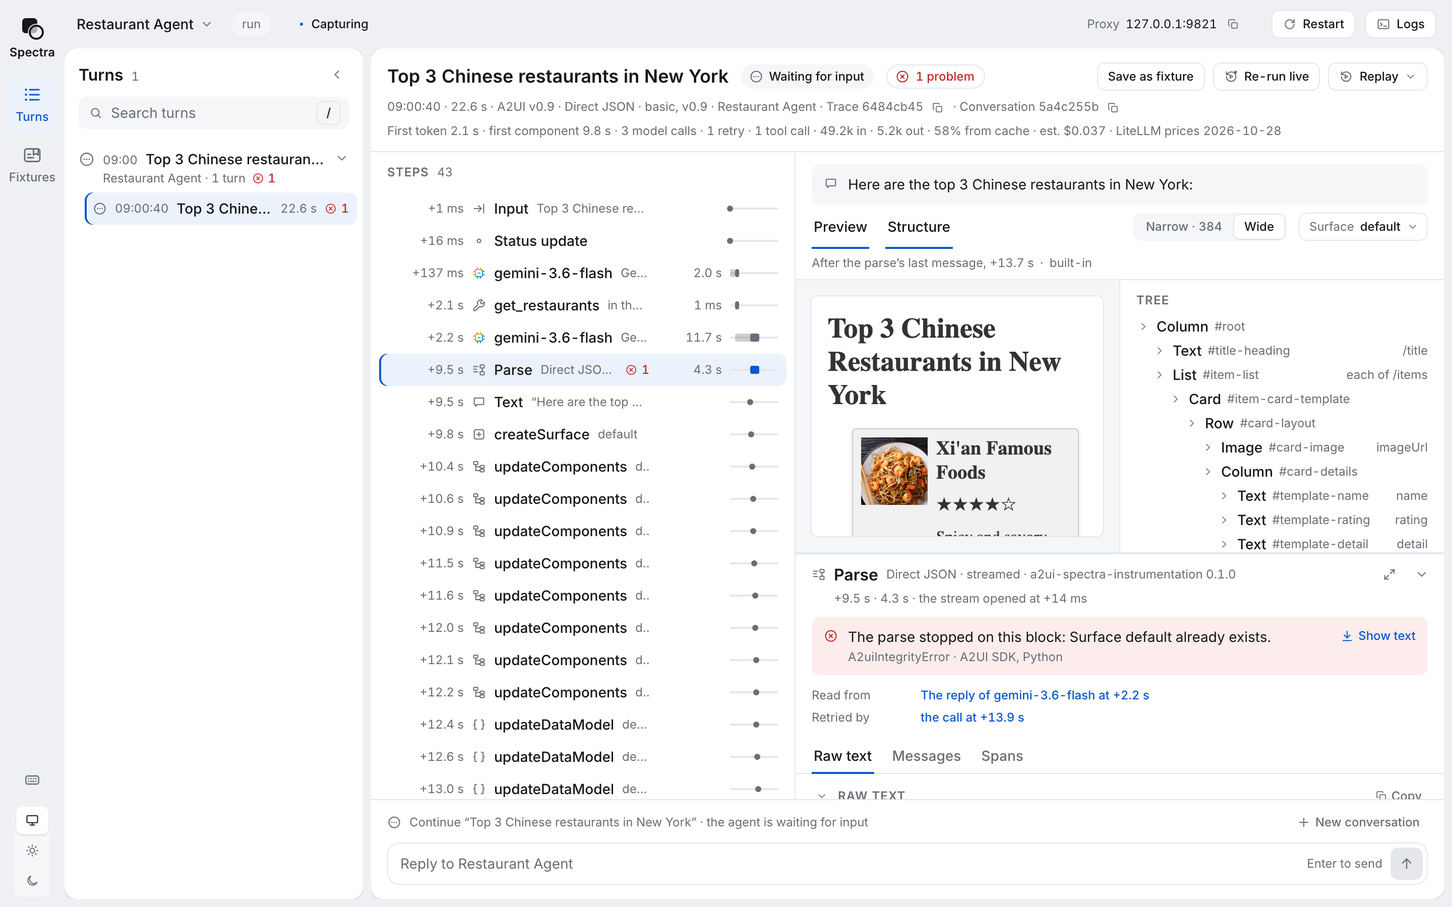
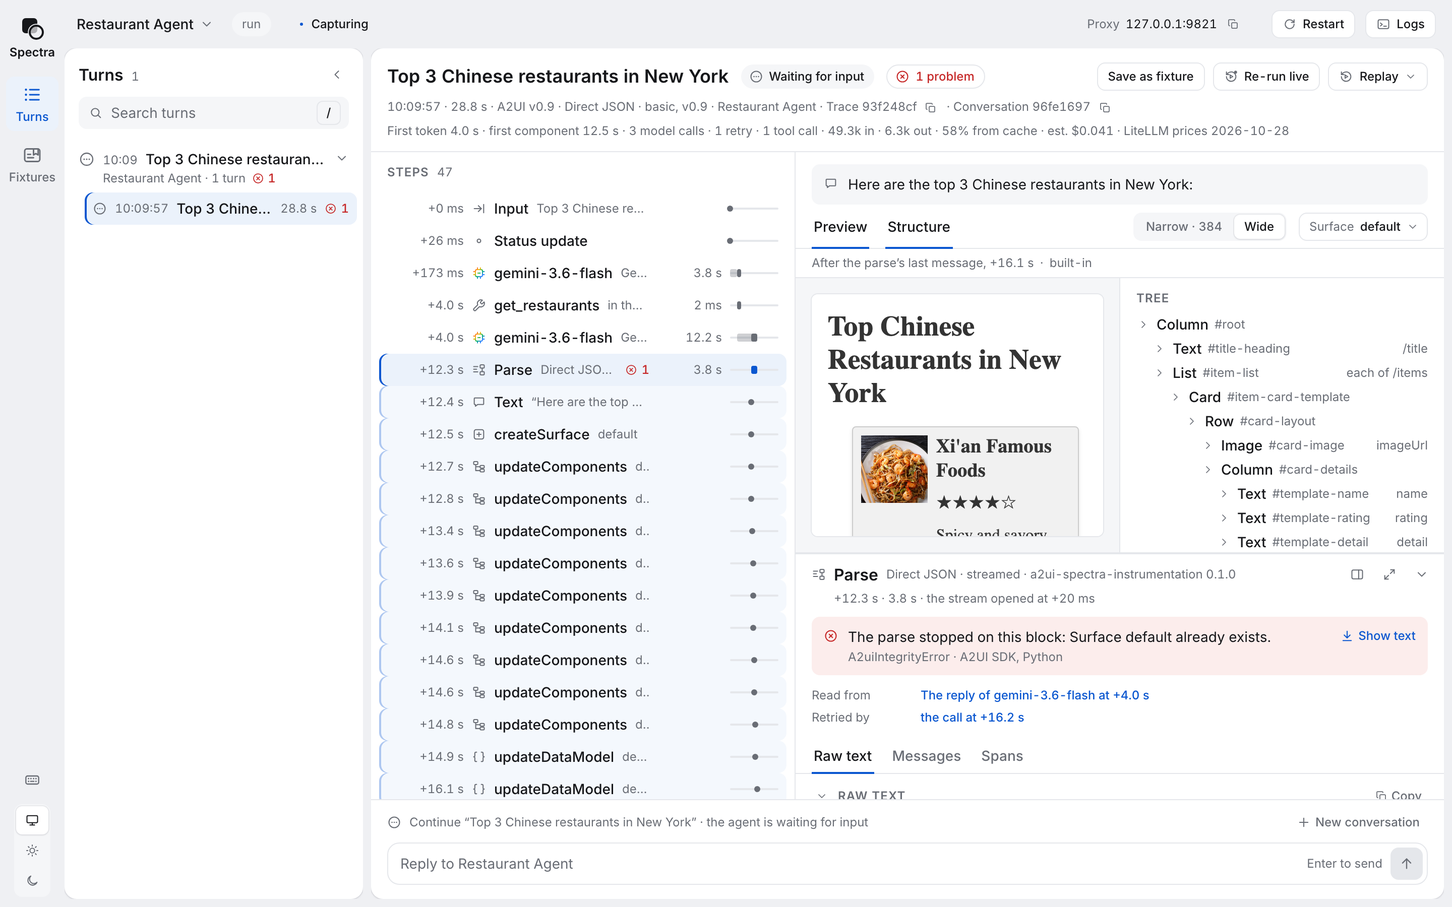
docs(phase-10): the seven images retaken on the viewer as built, the result's tab row on its line, the dock in the step's detail and the rows the failed parse covers tinted, from one fresh run of upstream's Python restaurant finder on Gemini on the compiled binary, and the text quoting the run writt

diff --git a/docs/design/viewer.md b/docs/design/viewer.md
@@ -51,13 +51,13 @@ The restaurant finder runs under `a2ui-spectra run`, with the Python wrapper swi
 
 <picture>
   <source media="(prefers-color-scheme: dark)" srcset="../images/viewer-dark.png">
-  <img alt="The viewer on the restaurant finder's turn. The turn list holds one conversation with one turn and one problem. The header reads Top 3 Chinese restaurants in New York, Waiting for input, 1 problem, with Save as fixture, Re-run live and Replay; under it the start, the duration, A2UI v0.9, Direct JSON, basic v0.9, the agent and the ids, then First token 2.1 s, first component 9.8 s, 3 model calls, 1 retry, 1 tool call, the tokens, 58% from cache and the estimated cost. The timeline's selected row is the parse, with one problem. The result shows the preview of the restaurant card beside its tree, and the parse's detail below reads The parse stopped on this block: Surface default already exists, Read from the reply of gemini-3.6-flash at +2.2 s, Retried by the call at +13.9 s, then its tabs, Raw text open." src="../images/viewer-light.png">
+  <img alt="The viewer on the restaurant finder's turn. The turn list holds one conversation with one turn and one problem. The header reads Top 3 Chinese restaurants in New York, Waiting for input, 1 problem, with Save as fixture, Re-run live and Replay; under it the start, the duration, A2UI v0.9, Direct JSON, basic v0.9, the agent and the ids, then First token 4.0 s, first component 12.5 s, 3 model calls, 1 retry, 1 tool call, the tokens, 58% from cache and the estimated cost. The timeline's selected row is the parse, with one problem, and the rows it covers, from its text part to its last updateDataModel, are tinted. The result shows the preview of the restaurant card beside its tree, and the parse's detail below reads The parse stopped on this block: Surface default already exists, Read from the reply of gemini-3.6-flash at +4.0 s, Retried by the call at +16.2 s, then its tabs, Raw text open." src="../images/viewer-light.png">
 </picture>
 
 1. **The turn opens.** The live stream says a turn opened. The turn list gains a row with the open turn's spinner, and since the newest turn was selected, the page selects the new one. The timeline is marked Live and follows its newest row.
 2. **The steps arrive.** A status update, then the first model call, `gemini-3.6-flash` in Gemini's colours, then the tool call `get_restaurants`, "in the agent", read from the agent's spans, then the second model call, whose bar is lighter until its first token and darker after. The parse row, "Parse · Direct JSON · streamed", comes in at its first chunk, after the second model call, and draws a bar from there to its end. A text part and the A2UI messages follow, each a dot at its moment.
 3. **The turn closes.** It ends waiting for input. The view lands on its first problem, the parse, and opens the step's detail on it. The header reads "1 problem"; its second line gives the start, the duration, the A2UI version, the inference format and the catalog the turn used; its third line the time to the first token and to the first component, the calls, the retry, the tokens, the share read from the cache and the estimated cost.
-4. **The parse's detail says what happened.** "The parse stopped on this block: Surface default already exists." over "A2uiIntegrityError · A2UI SDK, Python", with Show text. "Read from" links the model call whose reply the parse read, "The reply of gemini-3.6-flash at +2.2 s", and "Retried by" links the call that followed, "the call at +13.9 s". The Raw text tab under them has the rejected block in red.
+4. **The parse's detail says what happened.** "The parse stopped on this block: Surface default already exists." over "A2uiIntegrityError · A2UI SDK, Python", with Show text. "Read from" links the model call whose reply the parse read, "The reply of gemini-3.6-flash at +4.0 s", and "Retried by" links the call that followed, "the call at +16.2 s". The Raw text tab under them has the rejected block in red.
 5. **The result shows the surfaces after the parse.** The note reads "After the parse’s last message", the Preview draws the restaurant card through the basic catalog's renderer, and Structure shows its tree, each row with the path it binds.
 6. **The retry says why.** Selecting the third model call shows, before its prefix break, a grey sentence naming the call whose reply failed and the error, with "failed to parse" a link back to the parse.
 
@@ -279,14 +279,14 @@ On the right of the first line sit [Save as fixture](#save-as-fixture), [Re-run 
 
 | Part                        | What it counts                                                                                                                                         |
 | --------------------------- | ------------------------------------------------------------------------------------------------------------------------------------------------------ |
-| "First token 2.1 s"         | From the turn's start to the first model call's first chunk, or its end when it did not stream or is read from spans only. A miss gives no first token |
-| "first component 9.8 s"     | From the turn's start to the first A2UI message                                                                                                        |
+| "First token 4.0 s"         | From the turn's start to the first model call's first chunk, or its end when it did not stream or is read from spans only. A miss gives no first token |
+| "first component 12.5 s"    | From the turn's start to the first A2UI message                                                                                                        |
 | "3 model calls"             | The model calls, raw ones and those read from spans only included                                                                                      |
 | "1 retry"                   | The retries among them, when there are any                                                                                                             |
 | "1 tool call"               | The full tool rows: housekeeping and the toolset's calls, shown as their parses, are left out                                                          |
-| "49.2k in · 5.2k out"       | The input and output tokens summed over the calls with usage, those read from spans only included, as `9.1k` above a thousand                          |
+| "49.3k in · 6.3k out"       | The input and output tokens summed over the calls with usage, those read from spans only included, as `9.1k` above a thousand                          |
 | "58% from cache"            | The share of the input read from the cache, when the turn read any                                                                                     |
-| "est. $0.037"               | The estimated cost of the priced calls, to two significant figures and at most four decimals                                                           |
+| "est. $0.041"               | The estimated cost of the priced calls, to two significant figures and at most four decimals                                                           |
 | "1 call unpriced"           | How many calls have no price                                                                                                                           |
 | "LiteLLM prices 2026-10-28" | The price table's date, or "prices from the config" when every priced call used the config's price                                                     |
 | "1 call recorded raw"       | How many calls were recorded raw                                                                                                                       |
@@ -481,7 +481,7 @@ Such a step ends with the delivery it arrived in, folded, under "Delivery" with 
 
 ### A model call's detail
 
-The title line holds the model id, the API and where the call was seen, the model proxy and the agent's spans linked to it. The facts line holds its start, its duration and its time to the first token. The usage line holds its tokens in and out, its reasoning tokens, the share of its input read from the cache and its estimated cost, with where the price came from: "15.5k in · 3.0k out · 1.7k reasoning · 84% from cache · est. $0.014 · LiteLLM prices 2026-10-28"; "free · served from the record" for a served call; "price from the config"; or "no price for `<model>`". A call read from spans adds where its tokens came from, "tokens from ADK spans". The usage line is left out when the call states no input tokens, and the share from the cache when the input is 0; the exact counts stay in the Spans tab's attributes and the HTTP tab's response body. The estimated cost is computed in the page, from the price table read once from `GET /api/prices`.
+The title line holds the model id, the API and where the call was seen, the model proxy and the agent's spans linked to it. The facts line holds its start, its duration and its time to the first token. The usage line holds its tokens in and out, its reasoning tokens, the share of its input read from the cache and its estimated cost, with where the price came from: "15.5k in · 3.1k out · 1.8k reasoning · 84% from cache · est. $0.015 · LiteLLM prices 2026-10-28"; "free · served from the record" for a served call; "price from the config"; or "no price for `<model>`". A call read from spans adds where its tokens came from, "tokens from ADK spans". The usage line is left out when the call states no input tokens, and the share from the cache when the input is 0; the exact counts stay in the Spans tab's attributes and the HTTP tab's response body. The estimated cost is computed in the page, from the price table read once from `GET /api/prices`.
 
 Its connections:
 
@@ -588,11 +588,11 @@ The Fixtures section switches the panels: the fixtures list and the fixture view
 
 #### The fixture view
 
-The fixture view is the turn view's shape, under a fixture line: "Fixture" and the file's name, followed by its copy button, then the turn count, the recorded estimated cost, priced as the header's third line prices it, "recorded $0.037" or "recorded cost unknown", left out until the prices are read, or "nothing recorded to serve" on a record with nothing to serve, and when it was saved, "saved 2026-11-22 09:01".
+The fixture view is the turn view's shape, under a fixture line: "Fixture" and the file's name, followed by its copy button, then the turn count, the recorded estimated cost, priced as the header's third line prices it, "recorded $0.041" or "recorded cost unknown", left out until the prices are read, or "nothing recorded to serve" on a record with nothing to serve, and when it was saved, "saved 2026-11-22 10:12".
 
 <picture>
   <source media="(prefers-color-scheme: dark)" srcset="../images/replay-menu-dark.png">
-  <img alt="The Fixtures section with one fixture, chinese-restaurants, holding one turn with one problem. Its view's fixture line reads Fixture chinese-restaurants.json, 1 turn, recorded $0.037, saved 2026-11-22 09:01. The Replay popover is open with two rows: Everything recorded, Free, the model and the tools answer from the record; and Tools recorded, model live, Up to $0.037, a request that changed goes to the model." src="../images/replay-menu-light.png">
+  <img alt="The Fixtures section with one fixture, chinese-restaurants, holding one turn with one problem. Its view's fixture line reads Fixture chinese-restaurants.json, 1 turn, recorded $0.041, saved 2026-11-22 10:12. The Replay popover is open with two rows: Everything recorded, Free, the model and the tools answer from the record; and Tools recorded, model live, Up to $0.041, a request that changed goes to the model." src="../images/replay-menu-light.png">
 </picture>
 
 - A press in its preview is dropped.
@@ -612,7 +612,7 @@ Replay sits on the right of the header's first line, in Turns and in the fixture
 | Row                          | Cost label                                                                                                                                                                                                                    |
 | ---------------------------- | ----------------------------------------------------------------------------------------------------------------------------------------------------------------------------------------------------------------------------- |
 | "Everything recorded"        | "Free · the model and the tools answer from the record"; on a record with nothing to serve, by the server's rule, the row is off and reads "No model or tool calls were recorded"                                             |
-| "Tools recorded, model live" | "Up to $0.037 · a request that changed goes to the model", the record's recorded cost; "Cost unknown · a request that changed goes to the model" with no priced call; "Cost unknown · nothing recorded" with nothing to serve |
+| "Tools recorded, model live" | "Up to $0.041 · a request that changed goes to the model", the record's recorded cost; "Cost unknown · a request that changed goes to the model" with no priced call; "Cost unknown · nothing recorded" with nothing to serve |
 
 Both rows are off, with Re-run's note under their label, whenever [Re-run live](#re-run-live) is. The server is the authority on a refusal: its answer is shown in the popover, with nothing moved. Pressing a row starts the replay; the rows are off while the request is on its way, and the popover closes once the first turn has opened. The page switches to Turns and follows the replayed turns as they open, until another turn is selected or the address moves. In the fixture view, Replay replays the whole fixture, whatever turn is in view. What the two modes do is in [replay and fixtures](replay-and-fixtures.md).
 
@@ -636,7 +636,7 @@ A replayed turn has a fourth quiet line under its header: "Replayed from", the s
 
 <picture>
   <source media="(prefers-color-scheme: dark)" srcset="../images/replay-passed-dark.png">
-  <img alt="A replayed turn of the fixture. The header's third line reads First token 30 ms, first component 93 ms, 1 retry, 1 tool call, 3 calls from the record, free; the fourth line reads Replayed from chinese-restaurants.json, turn 1 of 1, everything recorded, passed. The served retry carries the grey tag Retry 1 · Record in the timeline." src="../images/replay-passed-light.png">
+  <img alt="A replayed turn of the fixture. The header's third line reads First token 85 ms, first component 180 ms, 1 retry, 1 tool call, 3 calls from the record, free; the fourth line reads Replayed from chinese-restaurants.json, turn 1 of 1, everything recorded, passed. The served retry carries the grey tag Retry 1 · Record in the timeline." src="../images/replay-passed-light.png">
 </picture>
 
 A re-run turn's line reads "Re-run of", its source, its number of the total and "live", with no verdict and no colour, and its header's third line counts every call as live.
@@ -675,7 +675,7 @@ Its header, "Logs", names the agent's command, cut, and counts the lines held an
 - **Each output line**, with its time to the millisecond in the page's time zone, its stream as `out` or `err`, and its text, the ANSI escape codes stripped and only what follows the line's last carriage return shown, the carriage returns the line ends in not counted. A long line scrolls sideways while the dividers and markers stay in view.
 - **Each divider** the buffer holds, "Started · uv run ." and "Stopped · prompt_builder.py changed · exited with code 143", the session's first start included; a long one is cut, with its whole text as its tooltip.
 - **"No output yet."**, under the dividers for as long as no output line is held.
-- **Turn markers.** Each listed turn, whatever agent the turn list is showing, is marked where it opened, "Turn opened ·" and its name as the turn list names it, or "A turn" before its input has come, a link that selects it in Turns and leaves the drawer open; and where it closed, "Turn closed ·" with its outcome in the header's words, lower-case, and its duration, "Turn closed · waiting for input · 22.6 s". A marker is drawn only when its moment is not earlier than the oldest entry the buffer holds; among the entries of its millisecond, an opened marker comes first and a closed one last.
+- **Turn markers.** Each listed turn, whatever agent the turn list is showing, is marked where it opened, "Turn opened ·" and its name as the turn list names it, or "A turn" before its input has come, a link that selects it in Turns and leaves the drawer open; and where it closed, "Turn closed ·" with its outcome in the header's words, lower-case, and its duration, "Turn closed · waiting for input · 28.8 s". A marker is drawn only when its moment is not earlier than the oldest entry the buffer holds; among the entries of its millisecond, an opened marker comes first and a closed one last.
 
 The drawer follows its end until the reader scrolls up, and Jump to latest resumes. It closes by its close button, "Close the logs", or by Logs; Escape does not close it. While the page is not connected, it keeps what it held.
 

diff --git a/docs/design/turn-end-to-end.md b/docs/design/turn-end-to-end.md
@@ -250,10 +250,10 @@ The store then writes the turn as one turn record file, `.a2ui-spectra/turns/<co
 
 <picture>
   <source media="(prefers-color-scheme: dark)" srcset="../images/viewer-dark.png">
-  <img alt="The viewer on the closed turn. The context bar reads Restaurant Agent, run, Capturing, with the wire proxy's address 127.0.0.1:9821, Restart and Logs. The turn list holds one conversation with one turn and one problem. The header reads Top 3 Chinese restaurants in New York, Waiting for input, 1 problem, with Save as fixture, Re-run live and Replay; then 09:00:40, 22.6 s, A2UI v0.9, Direct JSON, basic v0.9, Restaurant Agent and the trace and conversation ids; then First token 2.1 s, first component 9.8 s, 3 model calls, 1 retry, 1 tool call, 49.2k in, 5.2k out, 58% from cache, est. $0.037, LiteLLM prices 2026-10-28. The timeline's selected row is the parse. The result shows the restaurant card in the Preview beside its tree in Structure, and the parse's detail reads The parse stopped on this block: Surface default already exists, Read from the reply of gemini-3.6-flash at +2.2 s, Retried by the call at +13.9 s, then its tabs, Raw text open." src="../images/viewer-light.png">
+  <img alt="The viewer on the closed turn. The context bar reads Restaurant Agent, run, Capturing, with the wire proxy's address 127.0.0.1:9821, Restart and Logs. The turn list holds one conversation with one turn and one problem. The header reads Top 3 Chinese restaurants in New York, Waiting for input, 1 problem, with Save as fixture, Re-run live and Replay; then 10:09:57, 28.8 s, A2UI v0.9, Direct JSON, basic v0.9, Restaurant Agent and the trace and conversation ids; then First token 4.0 s, first component 12.5 s, 3 model calls, 1 retry, 1 tool call, 49.3k in, 6.3k out, 58% from cache, est. $0.041, LiteLLM prices 2026-10-28. The timeline's selected row is the parse, and the rows it covers, from its text part to its last updateDataModel, are tinted. The result shows the restaurant card in the Preview beside its tree in Structure, and the parse's detail reads The parse stopped on this block: Surface default already exists, Read from the reply of gemini-3.6-flash at +4.0 s, Retried by the call at +16.2 s, then its tabs, Raw text open." src="../images/viewer-light.png">
 </picture>
 
-The closed turn, from the same run. The viewer reads the session and the turns from Spectra's server, follows the live stream, and works out what it shows from the record. The header gives the request, the outcome, "Waiting for input", and the one problem; then the start, the duration, the A2UI version, the inference format and the catalog the turn used, the agent and the trace and conversation ids; then the time to the first token and to the first component, the 3 model calls, the 1 retry, the 1 tool call, the tokens, the share read from the cache and the estimated cost, with the date of the price table. The turn landed on its first problem: the parse, selected in the timeline among its 43 steps, its detail reading "The parse stopped on this block: Surface default already exists.", "Read from" the reply of the call at +2.2 s, and "Retried by" the call at +13.9 s, over its Raw text tab. The result beside the timeline shows the surface after the parse's last message, the restaurant card in the Preview and its tree in Structure, each node with the path it binds. The composer offers to continue the conversation, the agent waiting for input. [The viewer](viewer.md) takes the page area by area.
+The closed turn, from the same run. The viewer reads the session and the turns from Spectra's server, follows the live stream, and works out what it shows from the record. The header gives the request, the outcome, "Waiting for input", and the one problem; then the start, the duration, the A2UI version, the inference format and the catalog the turn used, the agent and the trace and conversation ids; then the time to the first token and to the first component, the 3 model calls, the 1 retry, the 1 tool call, the tokens, the share read from the cache and the estimated cost, with the date of the price table. The turn landed on its first problem: the parse, selected in the timeline among its 47 steps, its detail reading "The parse stopped on this block: Surface default already exists.", "Read from" the reply of the call at +4.0 s, and "Retried by" the call at +16.2 s, over its Raw text tab. The result beside the timeline shows the surface after the parse's last message, the restaurant card in the Preview and its tree in Structure, each node with the path it binds. The composer offers to continue the conversation, the agent waiting for input. [The viewer](viewer.md) takes the page area by area.
 
 ### 9. The preview draws the surface
 
@@ -265,17 +265,17 @@ Save as fixture copies a turn's record, whole, into the fixtures folder, `a2ui-s
 
 <picture>
   <source media="(prefers-color-scheme: dark)" srcset="../images/replay-menu-dark.png">
-  <img alt="The Fixtures section with one fixture, chinese-restaurants, holding one turn with one problem. The fixture line reads Fixture chinese-restaurants.json, 1 turn, recorded $0.037, saved 2026-11-22 09:01, over the turn Top 3 Chinese restaurants in New York, 09:00:40, 22.6 s. The Replay menu is open: Everything recorded, Free, the model and the tools answer from the record; and Tools recorded, model live, Up to $0.037, a request that changed goes to the model." src="../images/replay-menu-light.png">
+  <img alt="The Fixtures section with one fixture, chinese-restaurants, holding one turn with one problem. The fixture line reads Fixture chinese-restaurants.json, 1 turn, recorded $0.041, saved 2026-11-22 10:12, over the turn Top 3 Chinese restaurants in New York, 10:09:57, 28.8 s. The Replay menu is open: Everything recorded, Free, the model and the tools answer from the record; and Tools recorded, model live, Up to $0.041, a request that changed goes to the model." src="../images/replay-menu-light.png">
 </picture>
 
-The same turn, saved as `chinese-restaurants.json`. The fixture line reads 1 turn, recorded $0.037, saved 2026-11-22 09:01, and the Replay menu offers its two modes, "Everything recorded", free, and "Tools recorded, model live", up to $0.037.
+The same turn, saved as `chinese-restaurants.json`. The fixture line reads 1 turn, recorded $0.041, saved 2026-11-22 10:12, and the Replay menu offers its two modes, "Everything recorded", free, and "Tools recorded, model live", up to $0.041.
 
 <picture>
   <source media="(prefers-color-scheme: dark)" srcset="../images/replay-passed-dark.png">
-  <img alt="The replayed turn, listed above the turn it replayed. Its header reads 09:02:16, 164 ms; First token 30 ms, first component 93 ms, 1 retry, 1 tool call, 3 calls from the record, free; and Replayed from chinese-restaurants.json, turn 1 of 1, everything recorded, passed. The served retry in the timeline carries Retry 1 · Record, and the parse's detail reads The parse stopped on this block: Surface default already exists, Read from the reply of gemini-3.6-flash at +43 ms, Retried by the call at +104 ms." src="../images/replay-passed-light.png">
+  <img alt="The replayed turn, listed above the turn it replayed. Its header reads 10:12:42, 257 ms; First token 85 ms, first component 180 ms, 1 retry, 1 tool call, 3 calls from the record, free; and Replayed from chinese-restaurants.json, turn 1 of 1, everything recorded, passed. The served retry in the timeline carries Retry 1 · Record, and the parse's detail reads The parse stopped on this block: Surface default already exists, Read from the reply of gemini-3.6-flash at +107 ms, Retried by the call at +190 ms." src="../images/replay-passed-light.png">
 </picture>
 
-Its replay with everything recorded: 164 ms, "3 calls from the record · free", and "Replayed from chinese-restaurants.json · turn 1 of 1 · everything recorded · passed". The served model calls carry a Record tag, and the parse fails as it did in the recording, read from the reply served at +43 ms and retried by the call at +104 ms: the agent's own code runs again on the same replies.
+Its replay with everything recorded: 257 ms, "3 calls from the record · free", and "Replayed from chinese-restaurants.json · turn 1 of 1 · everything recorded · passed". The served model calls carry a Record tag, and the parse fails as it did in the recording, read from the reply served at +107 ms and retried by the call at +190 ms: the agent's own code runs again on the same replies.
 
 ## How the parts meet
 
